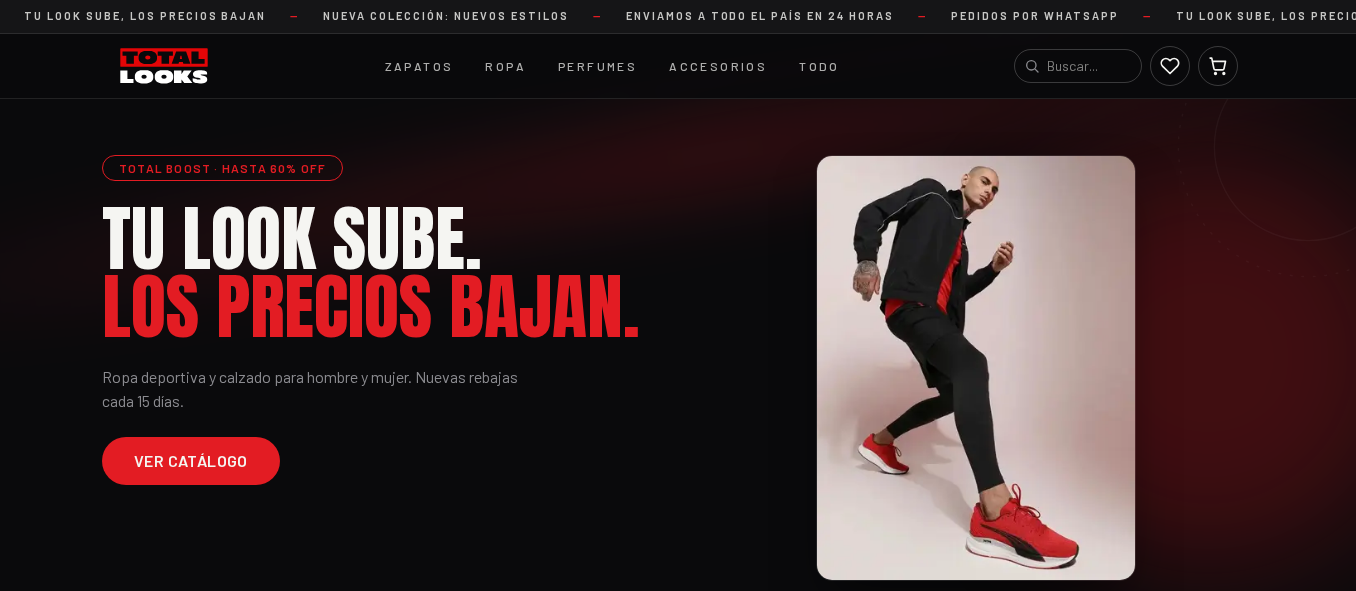
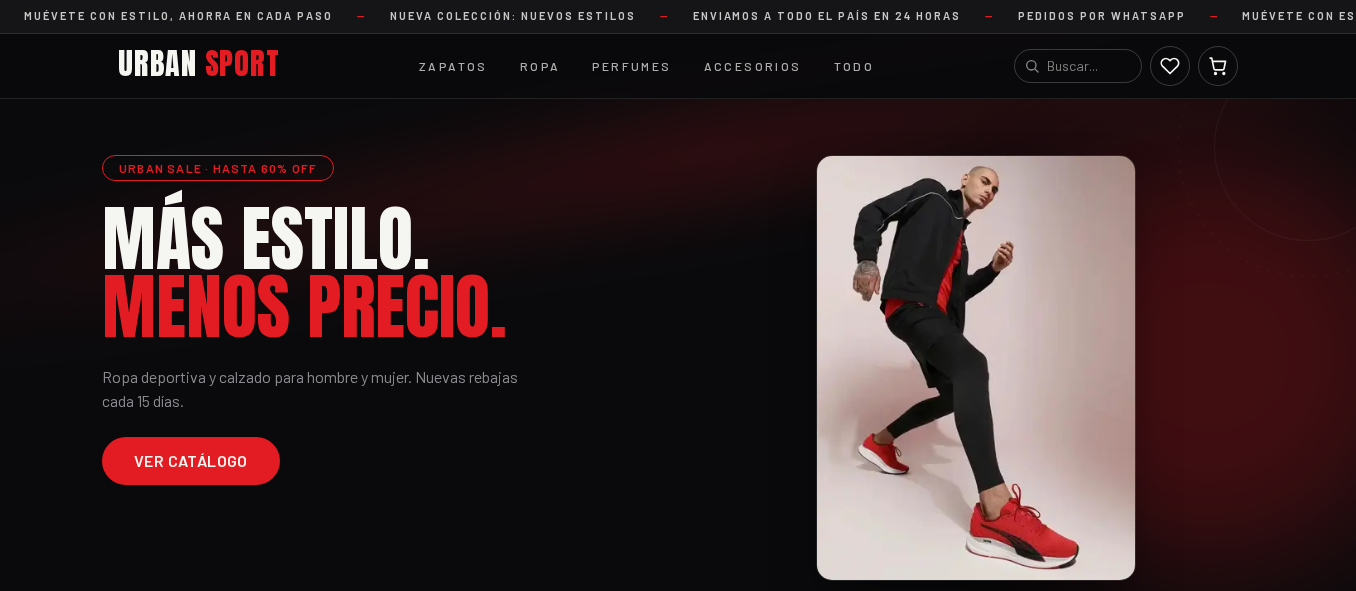
Re-enable store demo card with rebranded Urban Sport screenshot

diff --git a/src/i18n/translations.js b/src/i18n/translations.js
@@ -48,13 +48,12 @@ export const translations = {
         url: 'https://olaxlatamoficial.com/',
         comingSoon: false,
       },
-      // Oculto temporalmente hasta tener una copia con marca ficticia.
-      // {
-      //   nombre: 'Tienda de ropa deportiva',
-      //   resumen: 'Demo de tienda online con carrito editable y pedido por WhatsApp',
-      //   url: 'https://totallooks.netlify.app/',
-      //   comingSoon: false,
-      // },
+      {
+        nombre: 'Tienda de ropa deportiva',
+        resumen: 'Demo de tienda online con carrito editable y pedido por WhatsApp',
+        url: 'https://totallooks.netlify.app/',
+        comingSoon: false,
+      },
       {
         nombre: 'Vera',
         resumen: 'Buscador de propiedades con filtros de compra y alquiler',
@@ -338,15 +337,14 @@ export const translations = {
       tituloLinea2: 'despegaron.',
       subtitulo: 'Nuestros trabajos más recientes, en producción y generando ventas ahora mismo.',
       proyectos: [
-        // Oculto temporalmente hasta tener una copia con marca ficticia.
-        // {
-        //   nombre: 'Tienda de ropa deportiva',
-        //   tipo: 'Tienda online (demo)',
-        //   descripcion:
-        //     'Propuesta de tienda online para un negocio de ropa deportiva y calzado: catálogo con filtros y búsqueda, favoritos, carrito editable y pedido directo por WhatsApp. Es una demo — no está en producción ni hay un acuerdo cerrado con el negocio.',
-        //   stack: ['Next.js', 'Tailwind', 'WhatsApp', 'TypeScript'],
-        //   url: 'https://totallooks.netlify.app/',
-        // },
+        {
+          nombre: 'Tienda de ropa deportiva',
+          tipo: 'Tienda online (demo)',
+          descripcion:
+            'Propuesta de tienda online para un negocio de ropa deportiva y calzado: catálogo con filtros y búsqueda, favoritos, carrito editable y pedido directo por WhatsApp. Es una demo — no está en producción ni hay un acuerdo cerrado con el negocio.',
+          stack: ['Next.js', 'Tailwind', 'WhatsApp', 'TypeScript'],
+          url: 'https://totallooks.netlify.app/',
+        },
         {
           nombre: 'Olax',
           tipo: 'Sitio web + panel de administración',
@@ -498,13 +496,12 @@ export const translations = {
         url: 'https://olaxlatamoficial.com/',
         comingSoon: false,
       },
-      // Oculto temporalmente hasta tener una copia con marca ficticia.
-      // {
-      //   nombre: 'Tienda de ropa deportiva',
-      //   resumen: 'Online store demo with an editable cart and WhatsApp ordering',
-      //   url: 'https://totallooks.netlify.app/',
-      //   comingSoon: false,
-      // },
+      {
+        nombre: 'Tienda de ropa deportiva',
+        resumen: 'Online store demo with an editable cart and WhatsApp ordering',
+        url: 'https://totallooks.netlify.app/',
+        comingSoon: false,
+      },
       {
         nombre: 'Vera',
         resumen: 'Property search with buy and rent filters',
@@ -787,15 +784,14 @@ export const translations = {
       tituloLinea2: 'took off.',
       subtitulo: 'Our most recent work, in production and generating sales right now.',
       proyectos: [
-        // Oculto temporalmente hasta tener una copia con marca ficticia.
-        // {
-        //   nombre: 'Tienda de ropa deportiva',
-        //   tipo: 'Online store (demo)',
-        //   descripcion:
-        //     'Online store proposal for a sportswear and footwear business: catalog with filters and search, favorites, an editable cart, and direct ordering via WhatsApp. This is a demo — it is not in production and there is no signed agreement with the business.',
-        //   stack: ['Next.js', 'Tailwind', 'WhatsApp', 'TypeScript'],
-        //   url: 'https://totallooks.netlify.app/',
-        // },
+        {
+          nombre: 'Tienda de ropa deportiva',
+          tipo: 'Online store (demo)',
+          descripcion:
+            'Online store proposal for a sportswear and footwear business: catalog with filters and search, favorites, an editable cart, and direct ordering via WhatsApp. This is a demo — it is not in production and there is no signed agreement with the business.',
+          stack: ['Next.js', 'Tailwind', 'WhatsApp', 'TypeScript'],
+          url: 'https://totallooks.netlify.app/',
+        },
         {
           nombre: 'Olax',
           tipo: 'Website + admin panel',

diff --git a/src/pages/Inicio.jsx b/src/pages/Inicio.jsx
@@ -171,7 +171,7 @@ function Inicio() {
           <p className="mx-auto mt-4 max-w-xl text-slate">{t.trabajoReciente.subtitulo}</p>
         </Reveal>
 
-        <div className="mx-auto mt-12 grid max-w-6xl gap-6 md:grid-cols-3">
+        <div className="mx-auto mt-12 grid max-w-6xl gap-6 md:grid-cols-2">
           {t.proyectosDestacados.map((proyecto, index) => {
             const CardTag = proyecto.url ? 'a' : 'div'
             return proyecto.comingSoon ? (
